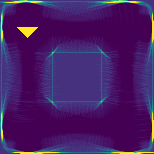
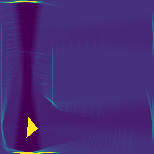
Costanti spostate in file a parte

diff --git a/myCalibration.py b/myCalibration.py
@@ -1,18 +1,18 @@
+import threading
+
+
 import cv2
 import numpy as np
-import imutils
-import time
-import threading
-import Queue
 
 running = True
 
+
 def adjust_gamma(image, gamma=1.0):
 
-   invGamma = 1.0 / gamma
-   table = np.array([((i / 255.0) ** invGamma) * 255
-      for i in np.arange(0, 256)]).astype("uint8")
-   return cv2.LUT(image, table)
+    invGamma = 1.0 / gamma
+    table = np.array([((i / 255.0) ** invGamma) * 255
+                      for i in np.arange(0, 256)]).astype("uint8")
+    return cv2.LUT(image, table)
 
 
 def distance_to_camera(knownWidth, focalLength, perWidth):
@@ -35,10 +35,8 @@ def update(x):
     #mask = cv2.dilate(mask, None, iterations=2)
 
     #cv2.imshow('mask', mask)
-    #cv2.waitKey(0)
-    #cv2.destroyAllWindows()
-
-
+    # cv2.waitKey(0)
+    # cv2.destroyAllWindows()
 
 
 #img = adjust_gamma(img, gamma=0.6)
@@ -52,36 +50,35 @@ hsv_green_upper = np.array([17, 220, 235])
 
 frame = None
 ret = None
-#hsv_green_lower = cv2.cvtColor(hsv_green_lower, cv2.COLOR_BGR2HSV)
-#hsv_green_upper = cv2.cvtColor(hsv_green_upper, cv2.COLOR_BGR2HSV)
-cap = cv2.VideoCapture('rtsp://@192.168.1.245/live/ch00_0',cv2.CAP_FFMPEG)
-fps = cap.set(cv2.CAP_PROP_FPS,15)
+# hsv_green_lower = cv2.cvtColor(hsv_green_lower, cv2.COLOR_BGR2HSV)
+# hsv_green_upper = cv2.cvtColor(hsv_green_upper, cv2.COLOR_BGR2HSV)
+cap = cv2.VideoCapture('rtsp://@192.168.1.245/live/ch00_0', cv2.CAP_FFMPEG)
+#fps = cap.set(cv2.CAP_PROP_FPS,15)
+
 
 class AcquireFrames(threading.Thread):
     def __init__(self):
         threading.Thread.__init__(self)
+
     def run(self):
         global cap
         global running
         global ret
         while running:
-            ret  = cap.grab()
+            ret = cap.grab()
         cap.release()
-
-
-
 
 
 cv2.namedWindow('mask')
 cv2.namedWindow('img')
 
-cv2.createTrackbar('H_LOW' , 'mask', hsv_green_lower[0], 255, update)
+cv2.createTrackbar('H_LOW', 'mask', hsv_green_lower[0], 255, update)
 cv2.createTrackbar('H_HIGH', 'mask', hsv_green_upper[0], 255, update)
 
-cv2.createTrackbar('S_LOW' , 'mask', hsv_green_lower[1], 255, update)
+cv2.createTrackbar('S_LOW', 'mask', hsv_green_lower[1], 255, update)
 cv2.createTrackbar('S_HIGH', 'mask', hsv_green_upper[1], 255, update)
 
-cv2.createTrackbar('V_LOW' , 'mask', hsv_green_lower[2], 255, update)
+cv2.createTrackbar('V_LOW', 'mask', hsv_green_lower[2], 255, update)
 cv2.createTrackbar('V_HIGH', 'mask', hsv_green_upper[2], 255, update)
 
 frames_grabber = AcquireFrames()
@@ -106,6 +103,8 @@ while(True):
     # a series of dilations and erosions to remove any small
     # blobs left in the mask
 
+    frame = cv2.cvtColor(frame, cv2.COLOR_BGR2HSV)
+
     mask = cv2.inRange(frame, hsv_green_lower, hsv_green_upper)
     mask = cv2.erode(mask, None, iterations=2)
     mask = cv2.dilate(mask, None, iterations=2)
@@ -128,36 +127,36 @@ while(True):
     #     cv2.createTrackbar('V_LOW' , 'mask', hsv_green_lower[2], 255, update)
     #     cv2.createTrackbar('V_HIGH', 'mask', hsv_green_upper[2], 255, update)
 
-    cnts = cv2.findContours(mask.copy(), cv2.RETR_EXTERNAL, cv2.CHAIN_APPROX_SIMPLE)[-2]
-    center = None
-
-    # only proceed if at least one contour was found
-    if len(cnts) > 0:
-        # find the largest contour in the mask, then use
-        # it to compute the minimum enclosing circle and
-        # centroid
-        c = max(cnts, key=cv2.contourArea)
-        ((x, y), radius) = cv2.minEnclosingCircle(c)
-        M = cv2.moments(c)
-        center = (int(M["m10"] / M["m00"]), int(M["m01"] / M["m00"]))
-
-        # only proceed if the radius meets a minimum size
-        if radius > 10:
-            # draw the circle and centroid on the frame,
-            # then update the list of tracked points
-            cv2.circle(frame, (int(x), int(y)), int(radius),
-                       (0, 255, 255), 2)
-            cv2.circle(frame, center, 5, (0, 0, 255), -1)
+    # cnts = cv2.findContours(mask.copy(), cv2.RETR_EXTERNAL, cv2.CHAIN_APPROX_SIMPLE)[-2]
+    # center = None
+    #
+    # # only proceed if at least one contour was found
+    # if len(cnts) > 0:
+    #     # find the largest contour in the mask, then use
+    #     # it to compute the minimum enclosing circle and
+    #     # centroid
+    #     c = max(cnts, key=cv2.contourArea)
+    #     ((x, y), radius) = cv2.minEnclosingCircle(c)
+    #     M = cv2.moments(c)
+    #     center = (int(M["m10"] / M["m00"]), int(M["m01"] / M["m00"]))
+    #
+    #     # only proceed if the radius meets a minimum size
+    #     if radius > 10:
+    #         # draw the circle and centroid on the frame,
+    #         # then update the list of tracked points
+    #         cv2.circle(frame, (int(x), int(y)), int(radius),
+    #                    (0, 255, 255), 2)
+    #         cv2.circle(frame, center, 5, (0, 0, 255), -1)
     #frame = imutils.resize(frame, width=600)
     cv2.imshow('mask', mask)
     cv2.imshow('img', frame)
-    #cv2.waitKey(0)
+    # cv2.waitKey(0)
 
-    if cv2.waitKey(1) & 0xFF == ord('q'):
+    if cv2.waitKey(0) & 0xFF == ord('q'):
         break
-    #cv2.destroyAllWindows()
+    # cv2.destroyAllWindows()
 
-#cap.release()
+# cap.release()
 cv2.destroyAllWindows()
 running = False
 #kernel = cv2.getStructuringElement(cv2.MORPH_ELLIPSE,(7,7))

diff --git a/object_detection.py b/object_detection.py
@@ -1,6 +1,7 @@
 import cv2
 import numpy as np
 import imutils
+import contsants
 
 class Object(object):
     def __init__(self, name):
@@ -17,13 +18,17 @@ class Object(object):
         elif name == "red":
             #self.min_hsv = np.array([0, 200, 0])
             #self.max_hsv = np.array([19, 255, 255])
-            self.min_hsv = np.array([0, 0, 28])
-            self.max_hsv = np.array([23, 32, 235])
+            self.min_hsv = np.array([0, 159, 26])
+            self.max_hsv = np.array([2, 255, 255])
             self.frameColor = (0, 0, 255)
 
         elif name == "yellow":
             self.min_hsv = np.array([20, 124, 123])
             self.max_hsv = np.array([30, 256, 256])
+            self.frameColor = (0, 255, 255)
+        elif name == "orange":
+            self.min_hsv = np.array([1, 242, 55])
+            self.max_hsv = np.array([24, 255, 204])
             self.frameColor = (0, 255, 255)
 
 
@@ -46,13 +51,13 @@ class Detector(object):
         mask = cv2.erode(mask, None, iterations=2)
         mask = cv2.dilate(mask, None, iterations=2)
         cv2.imshow('mask', mask)
-        cnts = cv2.findContours(mask.copy(), cv2.RETR_EXTERNAL, cv2.CHAIN_APPROX_SIMPLE)[-2]
+        cnts = cv2.findContours(mask, cv2.RETR_EXTERNAL, cv2.CHAIN_APPROX_SIMPLE)[-2]
 
         if len(cnts) > 0:
             c = max(cnts, key=cv2.contourArea)
             rect = cv2.minAreaRect(c)
 
-            if rect[1][0] > 130:  # se l'oggetto e' sufficientemente grande lo detecto (per evitare falsi positivi)
+            if rect[1][0] > 10:  # se l'oggetto e' sufficientemente grande lo detecto (per evitare falsi positivi)
                 self.bounding_box = rect
                 box = np.int0(cv2.boxPoints(self.bounding_box))
                 cv2.drawContours(frame, [box], -1, self.obj.frameColor, 8)
@@ -90,24 +95,24 @@ class DetectorHandler(object):
             # cv2.putText(self.frame, text,
             #             (self.frame.shape[1] - 2000, self.frame.shape[0] - 20), cv2.FONT_HERSHEY_SIMPLEX,
             #             6.0, self.target.obj.frameColor, 6)
-            range_min = self.frame.shape[1] * 0.5 - 300
-            range_max = self.frame.shape[1] * 0.5 + 300
-
+            range_min = self.frame.shape[1] * 0.5 - self.frame.shape[1]/4
+            range_max = self.frame.shape[1] * 0.5 + self.frame.shape[1]/4
+            print self.frame.shape
             if range_min <= self.target.bounding_box[0][0] <= range_max:
                 print "vai avanti"
-                return 0
+                return contsants.FORWARD
             elif self.target.bounding_box[0][0] < range_min:
                 print "vai a sinistra"
-                return 4
+                return contsants.TURN_LEFT_MICRO
             else:
                 print "vai a destra"
-                return 6
+                return contsants.TURN_RIGHT_MICRO
     def update(self, frame): #aggiorna distanze e bounding box di tutti i detector
         self.target = None
-        self.frame = frame
+        self.frame = cv2.cvtColor(frame, cv2.COLOR_BGR2HSV)
         for detector in self.detectors:
             detector.refresh()
-            detector.find_obj(frame)
+            detector.find_obj(self.frame)
             #detector.calculate_distance()
 
 

diff --git a/serverPringlesArancione.py b/serverPringlesArancione.py
@@ -7,8 +7,18 @@ from object_detection import Object, Detector, DetectorHandler
 import cv2
 import threading
 import constants
-
 running = True
+
+
+following = False
+reached = False
+target = "orange"
+
+
+
+
+
+
 
 TCP_IP = "192.168.1.234"
 TCP_PORT = 1931
@@ -36,7 +46,7 @@ frames_grabber = AcquireFrames()
 
 frames_grabber.start()
 
-detectors = [Detector(Object("red"))]
+detectors = [Detector(Object(target))]
 
 detector_handler = DetectorHandler(detectors)
 
@@ -65,27 +75,29 @@ try:
         frontObstacle = input_dictionary["frontObstacle"] == 0
         rightObstacle = input_dictionary["rightObstacle"] == 0
 
-        if not leftObstacle and not rightObstacle and not frontObstacle:
-            if frame is not None:
-                detector_handler.update(frame)
-                detector_handler.find_target()
-                if detector_handler.target:
-                    server_message = detector_handler.do_action()
-                else:
-                    server_message = constants.FORWARD
-                cv2.imshow('img', frame)
-            else:
-                server_message = constants.FORWARD
-        elif leftObstacle and rightObstacle:
-            server_message = constants.BACKWARD_RIGHT
-        elif leftObstacle:
-            server_message = constants.TURN_RIGHT
-        elif rightObstacle:
-            server_message = constants.TURN_LEFT
-        else:
-            server_message = constants.BACKWARD_LEFT
+        if frontObstacle and target == "red":
+            print "Yay!"
+            break
 
-        conn.send(str(server_message))
+        if frame is not None:
+            detector_handler.update(frame)
+            detector_handler.find_target()
+            if detector_handler.target:
+                server_message = detector_handler.do_action()
+                following = True
+            else:
+                if not following:
+                    server_message = constants.TURN_RIGHT
+                else:
+                    following = False
+                    target = "red"
+                    server_message = constants.BACKWARD
+                    detector_handler.detectors = [Detector(Object(target))]
+
+
+            cv2.imshow('img', frame)
+
+            conn.send(str(server_message))
 
         cv2.waitKey(1)
 except KeyboardInterrupt:

diff --git a/server.py b/server.py
@@ -3,23 +3,12 @@
 
 import json
 import socket
-import utils
+import constants
 
-DEBUG = False
+DEBUG = True
 
-FORWARD           =     0
-FORWARD_FAST      =     1
-BACKWARD          =     2
-TURN_LEFT         =     3
-TURN_LEFT_MICRO   =     4
-TURN_RIGHT        =     5
-TURN_RIGHT_MICRO  =     6
-GRAB              =     10
-RELEASE           =     11
-BACKWARD_LEFT     =     12
-BACKWARD_RIGHT    =     13
 
-TCP_IP = "192.168.1.234"
+TCP_IP = "192.168.1.83"
 TCP_PORT = 1931
 s = socket.socket(socket.AF_INET, socket.SOCK_STREAM) # IP .4 & TCP
 s.setsockopt(socket.SOL_SOCKET, socket.SO_REUSEADDR, 1) #this should prevent errors of "already in use"
@@ -51,15 +40,15 @@ try:
         rightObstacle = input_dictionary["rightObstacle"] == 0
         if not DEBUG:
             if not leftObstacle and not rightObstacle and not frontObstacle:
-                server_message = FORWARD
+                server_message = constants.FORWARD
             elif leftObstacle and rightObstacle:
-                server_message = BACKWARD
+                server_message = constants.BACKWARD
             elif leftObstacle:
-                server_message = TURN_RIGHT#utils.calcRotationCode(TURN_RIGHT, 45)
+                server_message = constants.TURN_RIGHT#utils.calcRotationCode(TURN_RIGHT, 45)
             elif rightObstacle:
-                server_message = TURN_LEFT#utils.calcRotationCode(TURN_LEFT, 45)
+                server_message = constants.TURN_LEFT#utils.calcRotationCode(TURN_LEFT, 45)
             else:
-                server_message = BACKWARD_LEFT#utils.calcRotationCode(TURN_RIGHT, 180)
+                server_message = constants.BACKWARD_LEFT#utils.calcRotationCode(TURN_RIGHT, 180)
             print "Responding: ", server_message
             conn.send(str(server_message))
         else:

diff --git a/constants.py b/constants.py
@@ -1,0 +1,11 @@
+FORWARD           =     1
+FORWARD_FAST      =     2
+BACKWARD          =     3
+TURN_LEFT         =     4
+TURN_LEFT_MICRO   =     5
+TURN_RIGHT        =     6
+TURN_RIGHT_MICRO  =     7
+GRAB              =     10
+RELEASE           =     11
+BACKWARD_LEFT     =     12
+BACKWARD_RIGHT    =     13

diff --git a/import_image.py b/import_image.py
@@ -104,6 +104,3 @@ cv2.imshow('mask', mask)
 cv2.imshow('img', frame)
 cv2.waitKey(0)
 cv2.destroyAllWindows()
-
-
-
